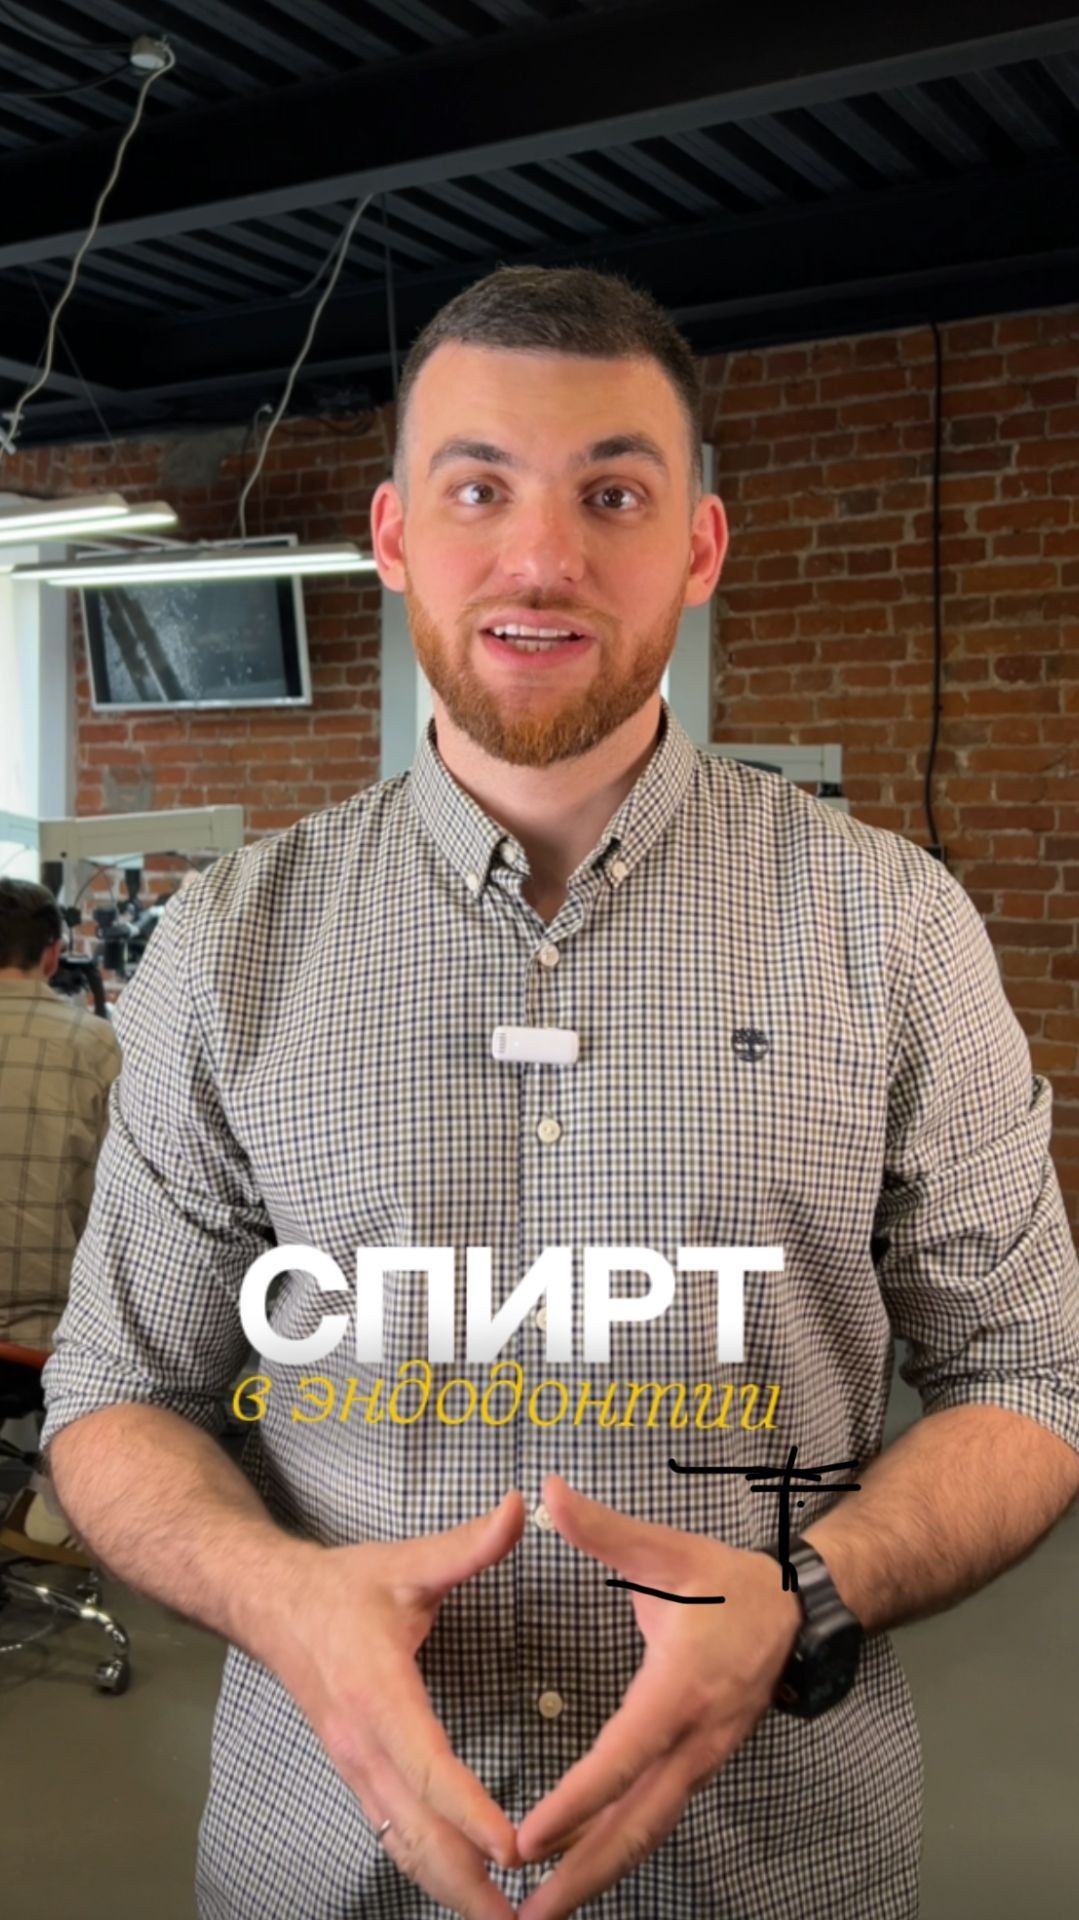
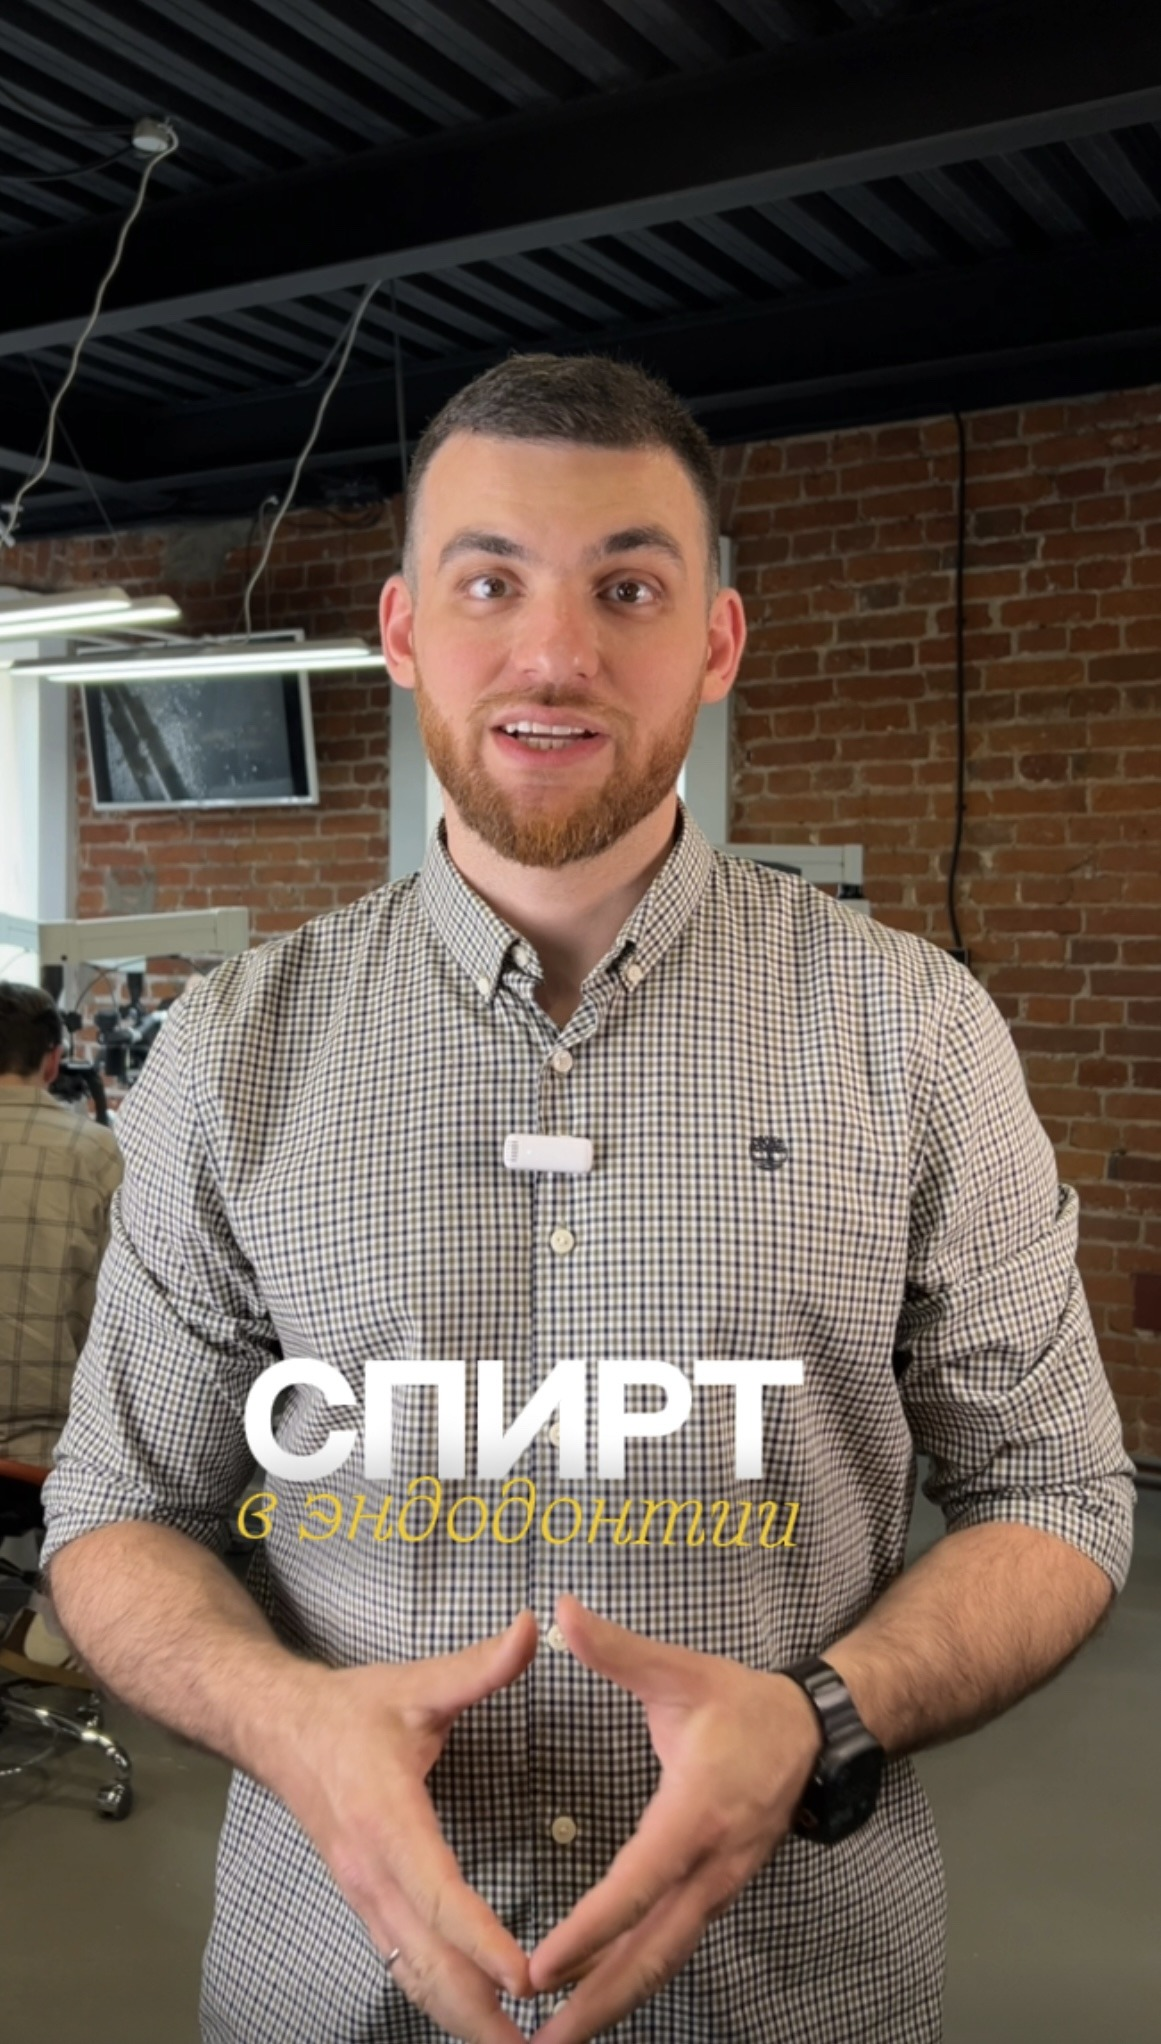
Заменить обложки «Концерты» и «Спирт в эндодонтии» на присланные фото
Файлы взяты из чата, конвертированы в jpg+webp без апскейла.

diff --git a/site/format-expert.html b/site/format-expert.html
@@ -165,7 +165,7 @@
           <p>Лектор, стоматология</p>
         </article>
     <article class="project-card reveal" style="--card-a:#1c1414;--card-b:#7a2020" tabindex="0" role="button" aria-label="Смотреть видео: Спирт в эндодонтии — Юрий Кочаров" data-video="https://rutube.ru/video/private/7a3be929784524f74fcbb59de8040f72/?p=7Ocj5PjUquPagkwUr-tFkg">
-          <picture><source srcset="assets/images/projects/kocharov-spirt-endo-hook.webp" type="image/webp"><img class="project-card__art" decoding="async" src="assets/images/projects/kocharov-spirt-endo-hook.jpg" alt="" loading="lazy" width="1079" height="1920"></picture>
+          <picture><source srcset="assets/images/projects/kocharov-spirt-endo-hook.webp" type="image/webp"><img class="project-card__art" decoding="async" src="assets/images/projects/kocharov-spirt-endo-hook.jpg" alt="" loading="lazy" width="1161" height="2044"></picture>
           <span class="project-card__scrim" aria-hidden="true"></span>
           <span class="project-card__index" aria-hidden="true">11</span>
           <span class="project-card__play" aria-hidden="true"><svg width="18" height="18" viewBox="0 0 24 24" fill="currentColor"><path d="M8 5v14l11-7Z"/></svg></span>
